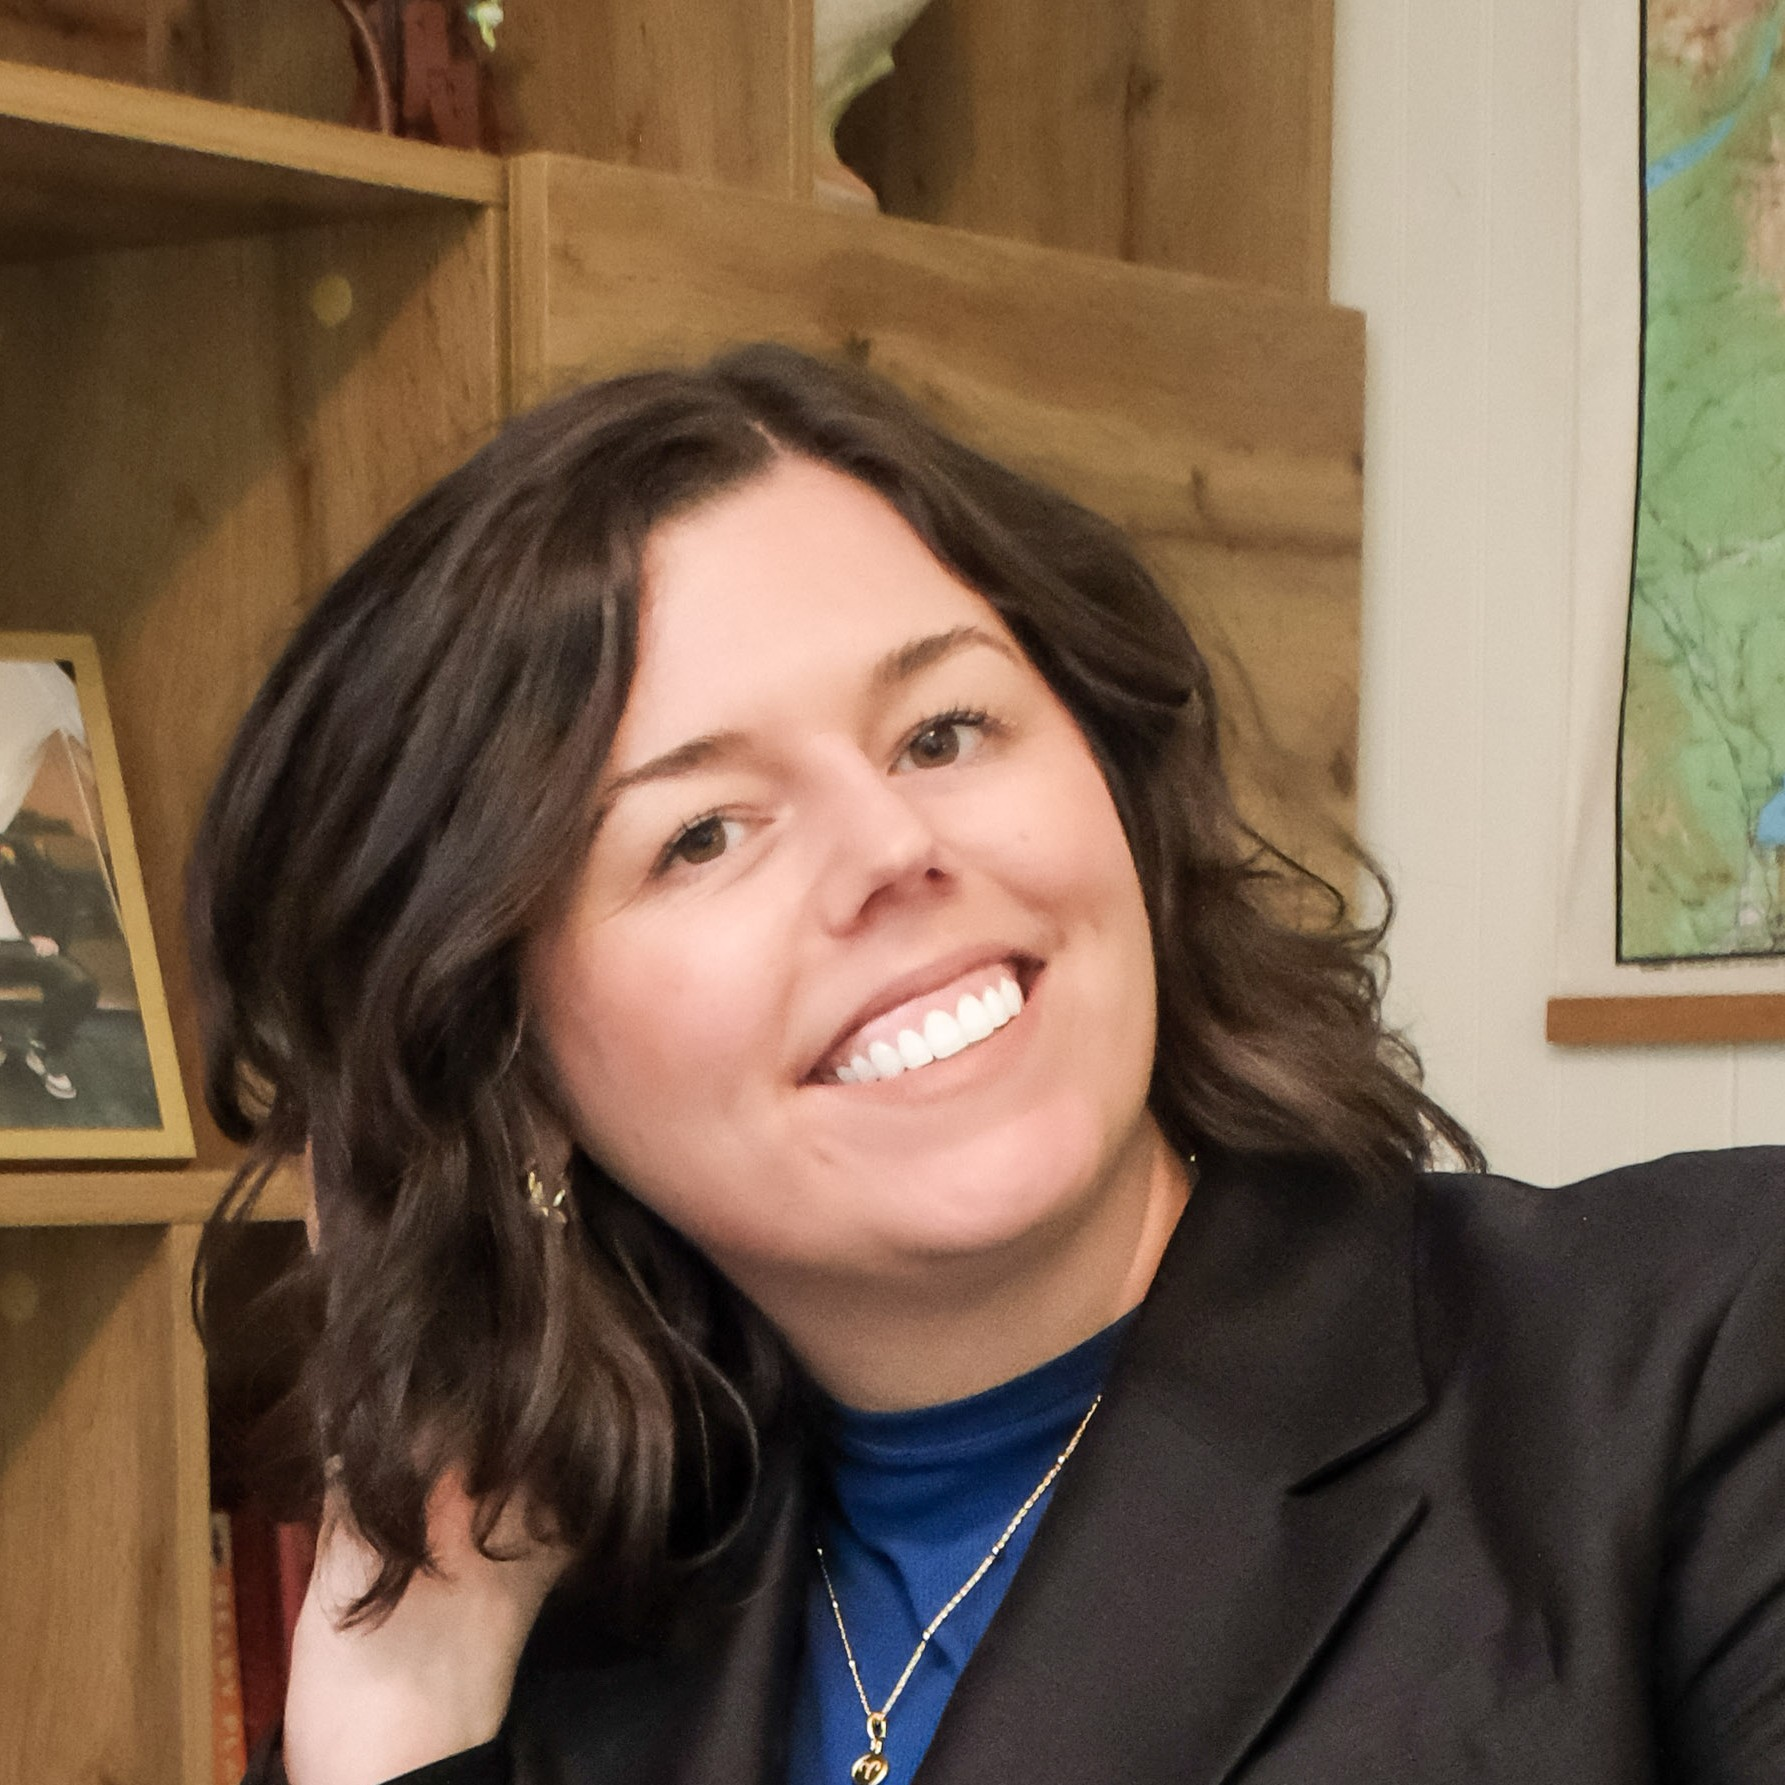
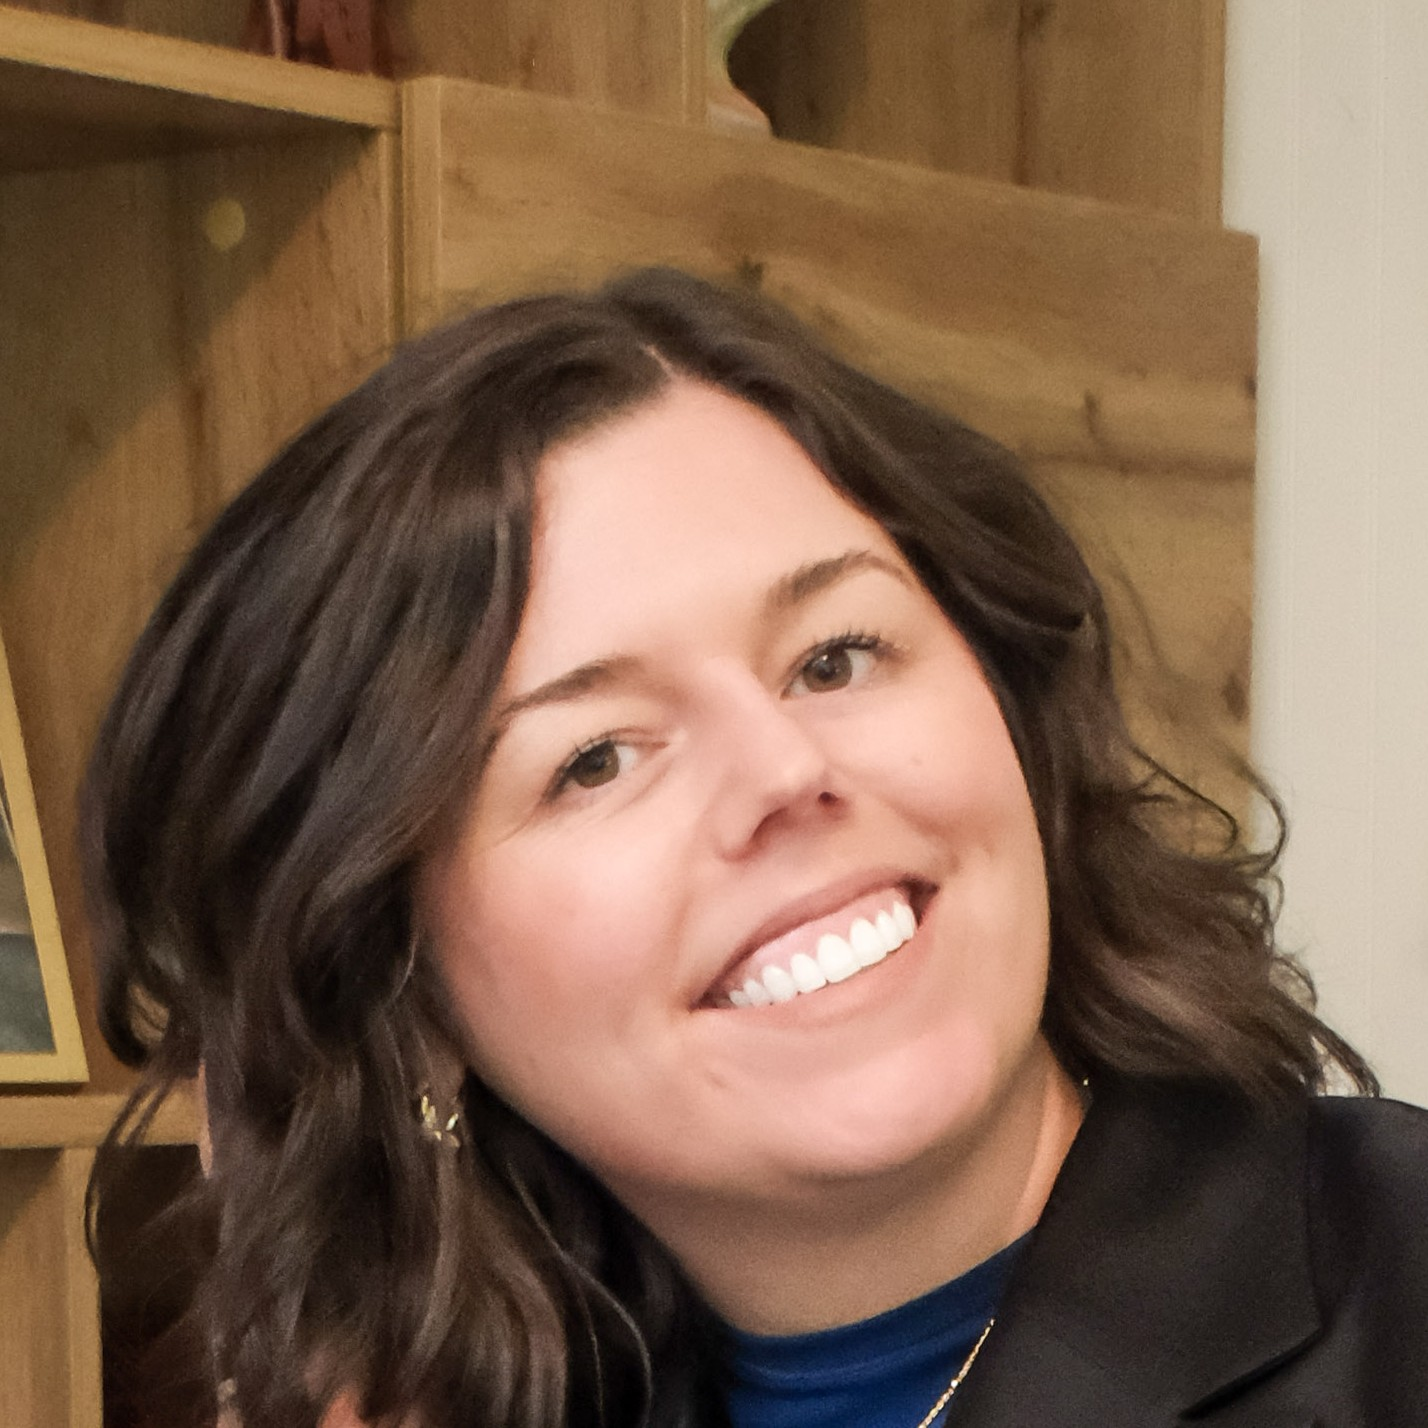
Widen headings, add seat cutout + calendar bump, speaking map pins
- Widen .measure 60ch->44rem globally and on home/services/speaking so
  big H2s (boom callouts, 'Structured to fit how you work') span the
  section instead of stacking
- EmptySeat: outlined rust stick figure with feather-masked face cutout
  that drops onto the head on scroll; filled-olive teammates + table bar
- MonthTimeline: connector arrow on active week + descriptor panel bumps
  down to line up with the active week on scroll
- embedded-partner: boom callouts get badges (lightbulb 'secret sauce',
  plus 'bonus scope'); widened
- speaking: replace 'cincy -> atlanta -> charleston' subhead; add faint
  map-pin overlay (city names) behind the talks carousel

diff --git a/src/styles/global.css b/src/styles/global.css
@@ -75,7 +75,7 @@ strong { font-weight: 600; }
 /* Shared layout utilities — used across pages incl. the engagement sub-pages,
    which have no scoped styles of their own, so these MUST be global. */
 .band { padding-block: var(--space-6); }
-.measure { max-width: 60ch; }
+.measure { max-width: 44rem; }
 .measure--center { max-width: none; margin-inline: auto; text-align: center; }
 .measure--center .ctas,
 .measure--center .hero__ctas { justify-content: center; }